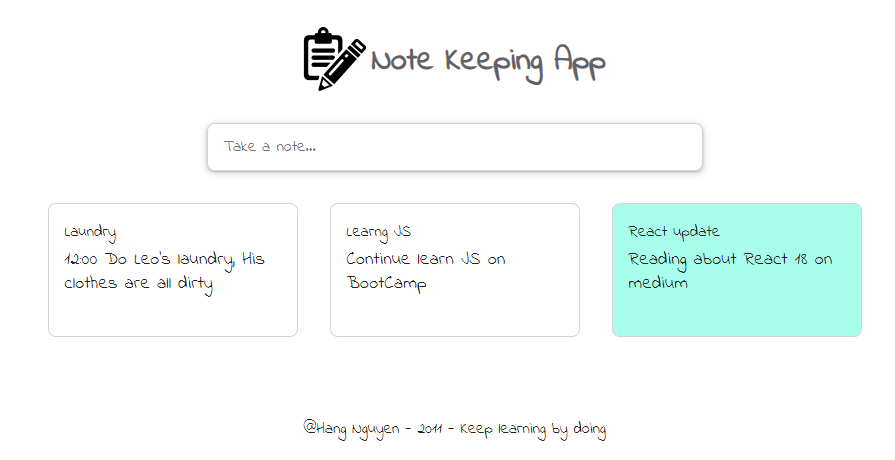
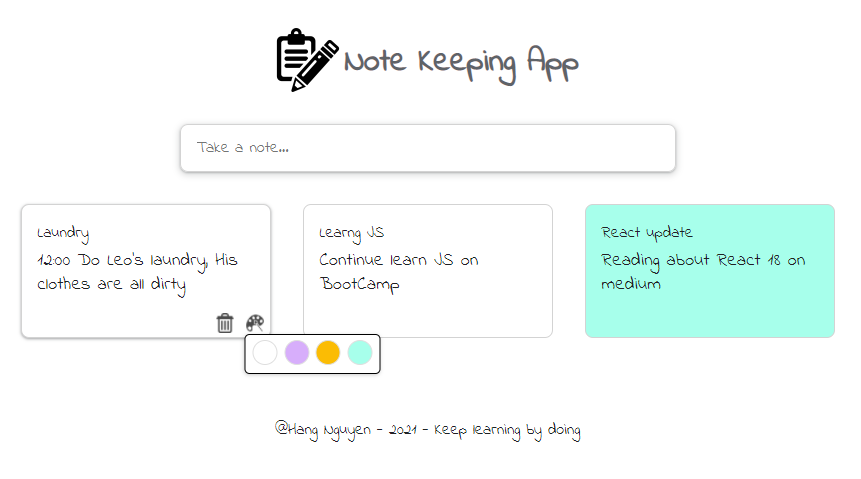
update footer of app

diff --git a/index.html b/index.html
@@ -43,7 +43,7 @@
                 <div class="color-option" data-color="#a7ffeb" id="teal"></div>
               </div>
         </main>
-        <footer>@Hang Nguyen - 2011 - Keep learning by doing</footer>
+        <footer>@Hang Nguyen - 2021 - Keep learning by doing</footer>
         <script src="app.js"></script>
     </body>
 </html>
